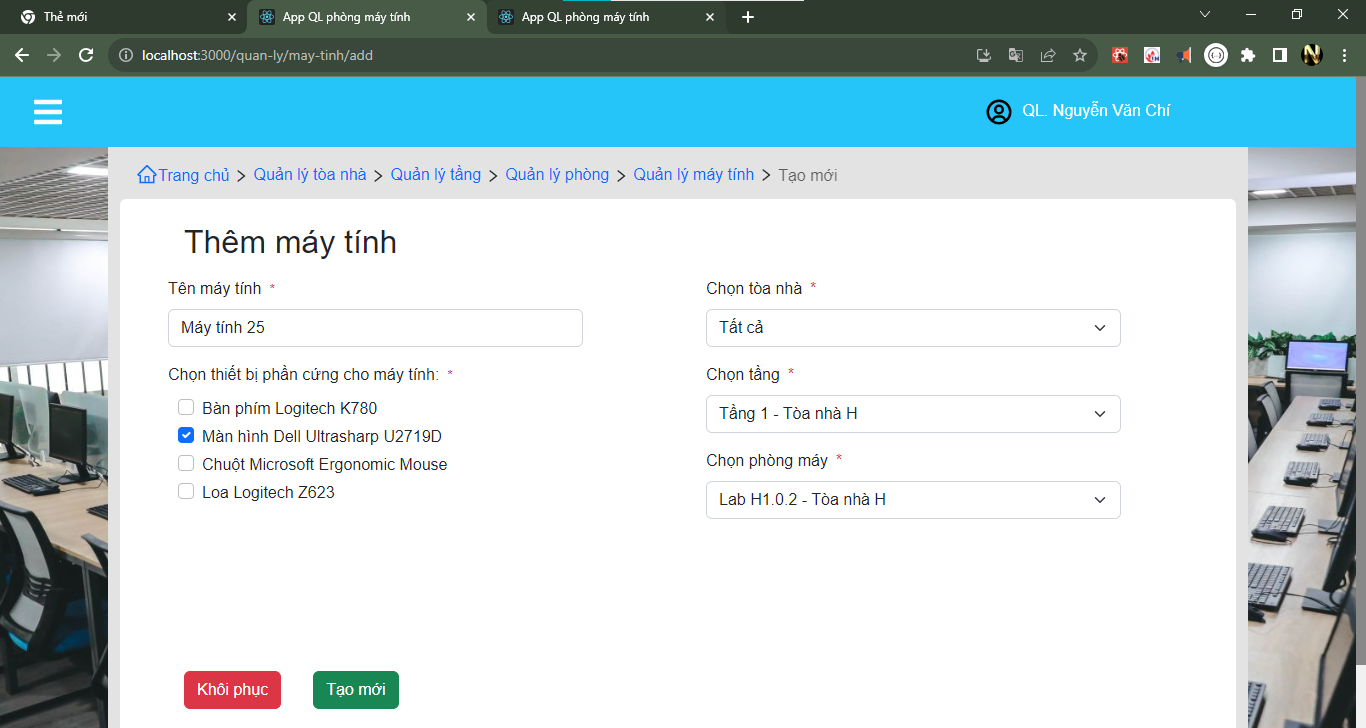
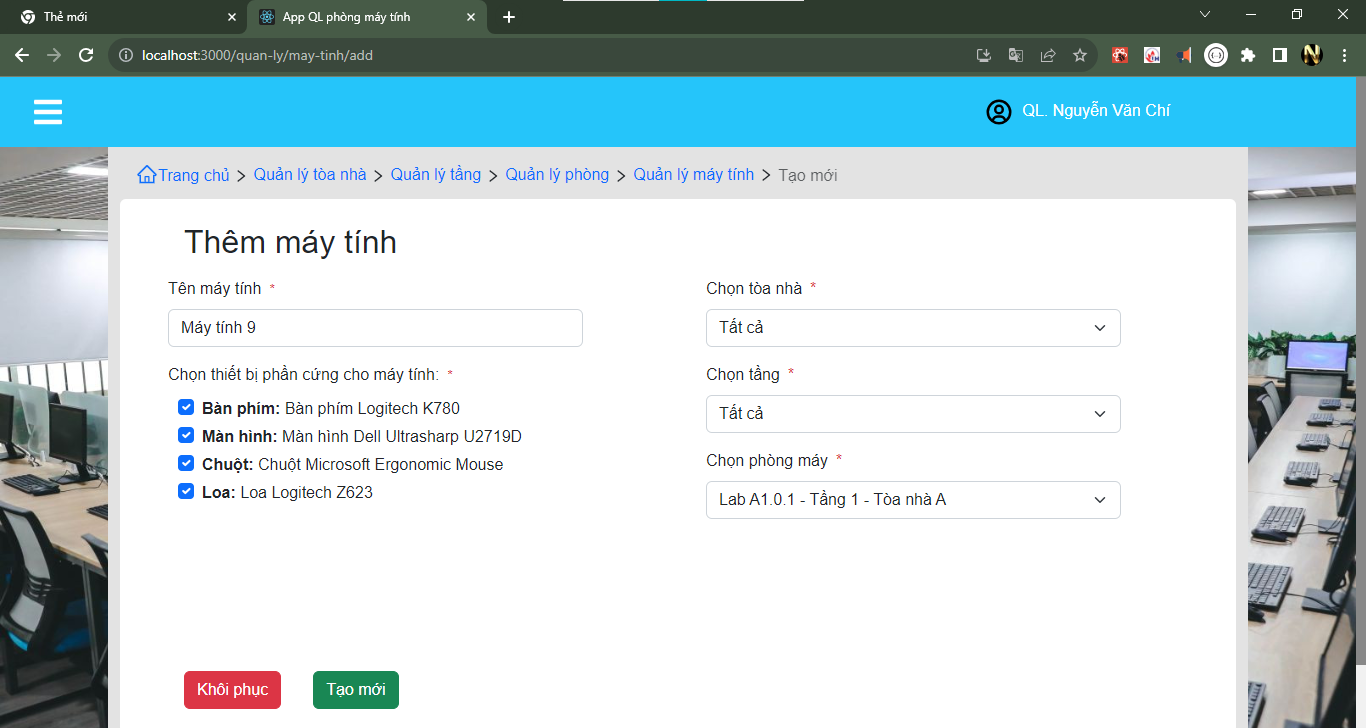
QLMayITnh: finish insert mayITnh api

diff --git a/src/redux/reducers/mayTinhReducer.jsx b/src/redux/reducers/mayTinhReducer.jsx
@@ -3,6 +3,9 @@
 import { createSlice } from "@reduxjs/toolkit";
 import { formatStringDate, http } from "../../util/config";
 import { formatToaNhaAndTang } from "../../util/formatString";
+import { history } from "../..";
+import { setStatusDataMoi } from "./homeReducer";
+import { getAllPhongMayApi } from "./phongMayReducer";
 
 const initialState = {
   arrMayTinh: [],
@@ -134,6 +137,29 @@ const mayTinhReducer = createSlice({
         action.payload
       );
     },
+    insertMayTinhAction: (state, action) => {
+      let objNew = action.payload;
+
+      state.arrMayTinh.push(objNew);
+      //
+      let {
+        arrMayTinh,
+        valueSearch,
+        valueSelPhongMay,
+        valueSelTang,
+        valueSelToaNha,
+        valueSelTrangThai,
+      } = state;
+
+      state.arrMayTinhSearch = dataSearch(
+        arrMayTinh,
+        valueSearch,
+        valueSelToaNha,
+        valueSelTang,
+        valueSelPhongMay,
+        valueSelTrangThai
+      );
+    },
   },
 });
 // exp nay de sử dụng theo cách 2
@@ -144,6 +170,7 @@ export const {
   setvalueSelTang_MayTinhAction,
   setvalueSelPhongMay_MayTinhAction,
   setvalueSelTrangThai_MayTinhAction,
+  insertMayTinhAction,
 } = mayTinhReducer.actions;
 export default mayTinhReducer.reducer;
 
@@ -207,18 +234,79 @@ const dataSearch = (
     });
   }
 
+  arrUpdate = sortArrDataMayTinhByTenPhong(arrUpdate);
   return [...arrUpdate];
 };
 
 // Call Api ++++++++++++++++++++++++++++++++++++++++++++++
 
+export const insertMayTinhApi = (mayTinh) => {
+  let { moTa, valueSelPhongMay, thietBis, phongMay } = mayTinh;
+  let day = new Date();
+
+  //
+  let saveMayTinh = {
+    moTa,
+    trangThai: "Đang hoạt động",
+    ngayLapDat: day,
+    phongMay: {
+      maPhong: valueSelPhongMay,
+    },
+  };
+  return async (dispatch) => {
+    try {
+      let resultSaveMayTinh = await http.post("/LuuMayTinh", saveMayTinh);
+
+      let objMayTinh = resultSaveMayTinh.data;
+
+      thietBis.forEach(async (item) => {
+        let objSave = {
+          mayTinh: objMayTinh,
+          thietBi: item,
+          status: true,
+        };
+        let resultMayTinhThietBI = await http.post(
+          "/LuuMayTinhThietBi",
+          objSave
+        );
+      });
+
+      // luu len reducer
+
+      let thietBiMays = thietBis.map((item) => {
+        return { ...item, trangThaiTbi: true };
+      });
+      let objRedux = {
+        maMay: objMayTinh.maMay,
+        trangThai: objMayTinh.trangThai,
+        moTa: objMayTinh.moTa,
+        ngayLapDat: objMayTinh.ngayLapDat,
+        phongMay,
+        thietBiMays,
+      };
+      dispatch(insertMayTinhAction(objRedux));
+
+      dispatch(getAllPhongMayApi);
+      dispatch(setStatusDataMoi(true));
+      history.push("/quan-ly/may-tinh");
+    } catch (error) {
+      console.log(
+        "🚀 ~ file: mayTinhReducer.jsx:220 ~ returnasync ~ error:",
+        error
+      );
+    }
+  };
+};
+
+/**
+ * Get all may tinh
+ * @param {*} dispatch
+ */
 export const getAllMayTinhApi = async (dispatch) => {
   try {
     let result = await http.get("/DSMayTinh2");
     let updateData = result.data;
-    updateData = updateData.sort((a, b) =>
-      a.phongMay.tenPhong > b.phongMay.tenPhong ? 1 : b.phongMay.tenPhong > a.phongMay.tenPhong ? -1 : 0
-    );
+    updateData = sortArrDataMayTinhByTenPhong(updateData);
     dispatch(setArrMayTinhAction([...updateData]));
   } catch (error) {
     console.log(
@@ -226,4 +314,13 @@ export const getAllMayTinhApi = async (dispatch) => {
       error
     );
   }
+};
+const sortArrDataMayTinhByTenPhong = (updateData) => {
+  return updateData.sort((a, b) =>
+    a.phongMay.tenPhong > b.phongMay.tenPhong
+      ? 1
+      : b.phongMay.tenPhong > a.phongMay.tenPhong
+      ? -1
+      : 0
+  );
 };

diff --git a/src/components/layout/Add/FormAddMayTinh.jsx b/src/components/layout/Add/FormAddMayTinh.jsx
@@ -6,6 +6,10 @@ import { useDispatch, useSelector } from "react-redux";
 import { getAllToaNhaApi } from "../../../redux/reducers/toaNhaReducer";
 import { getAllTangApi } from "../../../redux/reducers/tangReducer";
 import { getAllPhongMayApi } from "../../../redux/reducers/phongMayReducer";
+import {
+  getAllMayTinhApi,
+  insertMayTinhApi,
+} from "../../../redux/reducers/mayTinhReducer";
 
 export default function FormAddMayTinh() {
   const dispatch = useDispatch();
@@ -14,6 +18,7 @@ export default function FormAddMayTinh() {
   let { arrToaNha } = useSelector((state) => state.toaNhaReducer);
   let { arrTang } = useSelector((state) => state.tangReducer);
   let { arrPhongMay } = useSelector((state) => state.phongMayReducer);
+  let { arrMayTinh } = useSelector((state) => state.mayTinhReducer);
   //
 
   let objMayTinh = useRef({
@@ -32,6 +37,9 @@ export default function FormAddMayTinh() {
   });
 
   useEffect(() => {
+    if (arrMayTinh.length === 0) {
+      dispatch(getAllMayTinhApi);
+    }
     if (arrThietBi.length === 0) {
       dispatch(getAllThietBiApi);
     }
@@ -55,6 +63,27 @@ export default function FormAddMayTinh() {
       return;
     }
     // true
+    let { moTa, valueSelPhongMay } = objMayTinh.current;
+    //check ten may: ten may trùng và mà phòng trùng
+    let objPhongMay = arrPhongMay.find(
+      (item) => item.maPhong == valueSelPhongMay
+    );
+    let search = moTa.toLowerCase();
+
+    let objData = objPhongMay.mayTinhs.find((item) => {
+      return item.moTa.toLowerCase().includes(search);
+    });
+    if (objData != null) {
+      // timf they obj
+      alert("Tên máy tính đã được sử dụng!");
+      return;
+    }
+
+    // tên MT không trung
+
+    dispatch(
+      insertMayTinhApi({ ...objMayTinh.current, phongMay: objPhongMay })
+    );
   };
   const checkData = () => {
     let check = 1;
@@ -86,7 +115,7 @@ export default function FormAddMayTinh() {
           err_valueSelToaNha = "Hãy chọn thông tin!";
           check = 0;
         }
-        
+
         err_valueSelTang = "Hãy chọn thông tin!";
         check = 0;
       }
@@ -155,6 +184,7 @@ export default function FormAddMayTinh() {
     if (strFirst.toLowerCase().includes("Máy tính".toLowerCase())) {
       // true xuat chuỗi text mới vs number lớn hơn 1
       let strNumber = moTa.slice(8, moTa.length);
+
       return "Máy tính " + (parseInt(strNumber) + 1);
     }
 
@@ -239,6 +269,7 @@ export default function FormAddMayTinh() {
             style={{ marginTop: "2px" }}
             htmlFor={`${item.maThietBi}_Tbi`}
           >
+            <strong>{item.loaiThietBi.tenLoai}: </strong>
             {item.tenThietBi}
           </label>
         </div>
